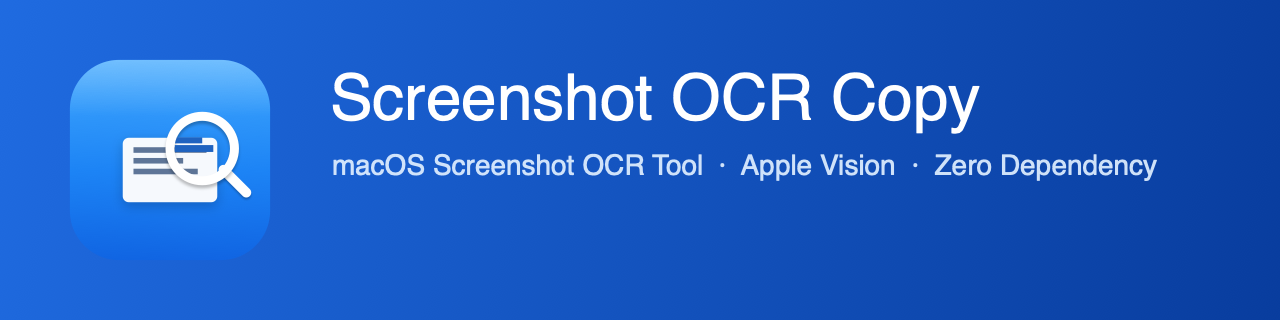
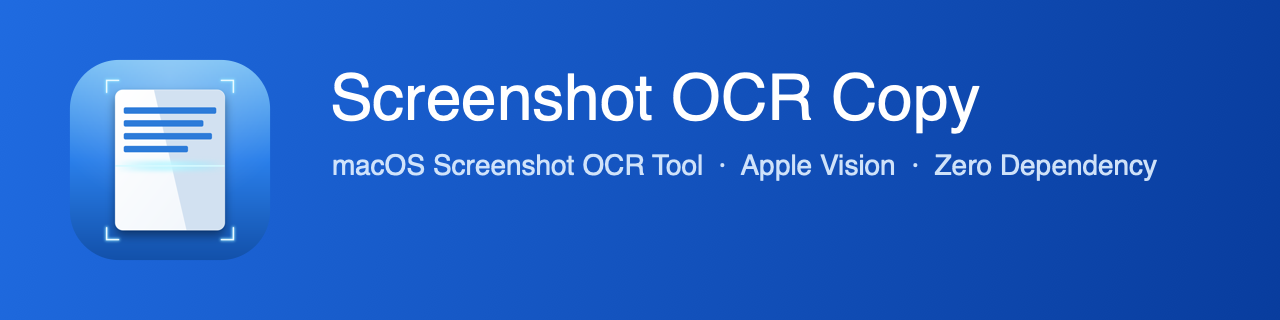
横幅直接加载真实图标，保证与图标同步
修复或实现思路：gen_banner.swift 改为加载 assets/icon_1024.png，不再用代码手画假图标

Changed region(s): [[0.0312, 0.1875, 0.2188, 0.8125]]

diff --git a/tools/gen_banner.swift b/tools/gen_banner.swift
@@ -2,8 +2,8 @@ import Cocoa
 import CoreGraphics
 
 // ============================================================
-// README 横幅：延续应用图标的现代苹果蓝色风格
-// 左侧放大镜+文字卡片 icon 元素，右侧 App 名称 + 标语
+// README 横幅：直接加载真实应用图标 assets/icon_1024.png
+// 保证横幅与图标永远同步
 // ============================================================
 
 let W = 1280
@@ -12,49 +12,35 @@ let cs = CGColorSpaceCreateDeviceRGB()
 guard let ctx = CGContext(data: nil, width: W, height: H, bitsPerComponent: 8,
                           bytesPerRow: 0, space: cs,
                           bitmapInfo: CGImageAlphaInfo.premultipliedLast.rawValue) else { exit(1) }
-let canvas = CGRect(x: 0, y: 0, width: W, height: H)
 
-// macOS squircle
+// macOS squircle（与图标外框一致的圆角）
 func squircle(_ rect: CGRect, radius: CGFloat) -> CGPath {
     return CGPath(roundedRect: rect.insetBy(dx: rect.width*0.045, dy: rect.height*0.045),
                   cornerWidth: radius, cornerHeight: radius, transform: nil)
 }
 
-// ---------- 1) 背景：深蓝渐变（与图标同色系，但稍深以突出前景） ----------
+// ---------- 1) 背景：深蓝渐变（衬托白色图标） ----------
 let bgGrad = CGGradient(colorsSpace: cs, colors: [
     CGColor(red: 0.10, green: 0.32, blue: 0.85, alpha: 1.0),
     CGColor(red: 0.04, green: 0.16, blue: 0.55, alpha: 1.0),
 ] as CFArray, locations: [0, 1])!
 ctx.drawLinearGradient(bgGrad, start: CGPoint(x: 0, y: H), end: CGPoint(x: W, y: 0), options: [])
 
-// ---------- 2) 左侧 App 图标元素（缩小版，squircle 造型） ----------
+// ---------- 2) 加载真实图标 ----------
+let iconFilePath = "/Users/jznano/Desktop/开发/截图复制/assets/icon_1024.png"
+guard let src = CGImageSourceCreateWithURL(URL(fileURLWithPath: iconFilePath) as CFURL, nil),
+      let iconImage = CGImageSourceCreateImageAtIndex(src, 0, nil) else {
+    fatalError("❌ 无法加载 \(iconFilePath)，请先生成图标")
+}
+
+// ---------- 3) 左侧：绘制真实图标（带 squircle 裁剪 + 阴影） ----------
 let iconSize: CGFloat = 220
 let iconX: CGFloat = 60
 let iconY = (CGFloat(H) - iconSize) / 2
 let iconRect = CGRect(x: iconX, y: iconY, width: iconSize, height: iconSize)
 let iconPath = squircle(iconRect, radius: iconSize * 0.2237)
 
-// 图标主体蓝色渐变
-ctx.saveGState()
-ctx.addPath(iconPath)
-ctx.clip()
-let iconGrad = CGGradient(colorsSpace: cs, colors: [
-    CGColor(red: 0.22, green: 0.60, blue: 1.00, alpha: 1.0),
-    CGColor(red: 0.10, green: 0.42, blue: 0.95, alpha: 1.0),
-    CGColor(red: 0.06, green: 0.28, blue: 0.85, alpha: 1.0),
-] as CFArray, locations: [0, 0.55, 1])!
-ctx.drawLinearGradient(iconGrad, start: CGPoint(x: iconX+iconSize/2, y: iconY+iconSize),
-                       end: CGPoint(x: iconX+iconSize/2, y: iconY), options: [])
-// 顶部高光
-let gloss = CGGradient(colorsSpace: cs, colors: [
-    CGColor(red: 1, green: 1, blue: 1, alpha: 0.30),
-    CGColor(red: 1, green: 1, blue: 1, alpha: 0.0),
-] as CFArray, locations: [0, 0.55])!
-ctx.drawLinearGradient(gloss, start: CGPoint(x: iconX+iconSize/2, y: iconY+iconSize),
-                       end: CGPoint(x: iconX+iconSize/2, y: iconY+iconSize*0.45), options: [])
-ctx.restoreGState()
-
-// 图标阴影外圈
+// 阴影外圈
 ctx.saveGState()
 ctx.setShadow(offset: CGSize(width: 0, height: -4), blur: 20,
               color: CGColor(red: 0, green: 0, blue: 0, alpha: 0.35))
@@ -63,71 +49,14 @@ ctx.setFillColor(CGColor(red: 0, green: 0, blue: 0, alpha: 0.001))
 ctx.fillPath()
 ctx.restoreGState()
 
-// 卡片
-let cardScale: CGFloat = iconSize / 1024
-let cardW: CGFloat = 440 * cardScale
-let cardH: CGFloat = 300 * cardScale
-let cardCx = iconX + iconSize/2
-let cardCy = iconY + iconSize/2 - 10
-let cardRect = CGRect(x: cardCx - cardW/2, y: cardCy - cardH/2, width: cardW, height: cardH)
-let cardPath = CGPath(roundedRect: cardRect, cornerWidth: 28*cardScale, cornerHeight: 28*cardScale, transform: nil)
+// 裁剪到 squircle 后绘制真实图标
 ctx.saveGState()
-ctx.setShadow(offset: CGSize(width: 0, height: -4), blur: 12,
-              color: CGColor(red: 0, green: 0, blue: 0, alpha: 0.20))
-ctx.addPath(cardPath)
-ctx.setFillColor(CGColor(red: 1, green: 1, blue: 1, alpha: 0.96))
-ctx.fillPath()
-ctx.restoreGState()
-// 卡片文字行
-ctx.setFillColor(CGColor(red: 0.30, green: 0.38, blue: 0.52, alpha: 1.0))
-let tL = cardRect.minX + 50*cardScale
-let tR = cardRect.maxX - 50*cardScale
-let tW = tR - tL
-let rowH: CGFloat = 26*cardScale
-let rows: [(y: CGFloat, w: CGFloat)] = [
-    (cardRect.maxY - 70*cardScale, tW),
-    (cardRect.maxY - 120*cardScale, tW * 0.68),
-    (cardRect.maxY - 170*cardScale, tW * 0.88),
-]
-for row in rows {
-    ctx.fill(CGRect(x: tL, y: row.y, width: row.w, height: rowH))
-}
-
-// 放大镜（右上方）
-let lensR: CGFloat = 150 * cardScale
-let lensCx = cardRect.maxX - 70*cardScale
-let lensCy = cardRect.maxY - 50*cardScale
-ctx.setLineWidth(46*cardScale)
-ctx.setLineCap(.round)
-ctx.setStrokeColor(CGColor(red: 1, green: 1, blue: 1, alpha: 1.0))
-let a: CGFloat = .pi/4
-let hStart = CGPoint(x: lensCx + cos(a)*(lensR-10*cardScale), y: lensCy - sin(a)*(lensR-10*cardScale))
-let hEnd = CGPoint(x: hStart.x + cos(a)*150*cardScale, y: hStart.y - sin(a)*150*cardScale)
-ctx.saveGState()
-ctx.setShadow(offset: CGSize(width: 0, height: -2), blur: 8*cardScale,
-              color: CGColor(red: 0, green: 0, blue: 0, alpha: 0.25))
-ctx.addLines(between: [hStart, hEnd])
-ctx.strokePath()
-ctx.restoreGState()
-ctx.setLineWidth(42*cardScale)
-ctx.setStrokeColor(CGColor(red: 1, green: 1, blue: 1, alpha: 1.0))
-ctx.saveGState()
-ctx.setShadow(offset: CGSize(width: 0, height: -3), blur: 10*cardScale,
-              color: CGColor(red: 0, green: 0, blue: 0, alpha: 0.25))
-ctx.addEllipse(in: CGRect(x: lensCx-lensR, y: lensCy-lensR, width: lensR*2, height: lensR*2))
-ctx.strokePath()
-ctx.restoreGState()
-let lensInnerR = lensR - 21*cardScale
-ctx.saveGState()
-ctx.addEllipse(in: CGRect(x: lensCx-lensInnerR, y: lensCy-lensInnerR,
-                          width: lensInnerR*2, height: lensInnerR*2))
+ctx.addPath(iconPath)
 ctx.clip()
-ctx.setFillColor(CGColor(red: 0.10, green: 0.30, blue: 0.70, alpha: 1.0))
-ctx.fill(CGRect(x: lensCx-lensInnerR, y: lensCy-16*cardScale, width: lensInnerR*2*0.70, height: 32*cardScale))
-ctx.fill(CGRect(x: lensCx-lensInnerR, y: lensCy+24*cardScale, width: lensInnerR*2*0.50, height: 28*cardScale))
+ctx.draw(iconImage, in: iconRect)
 ctx.restoreGState()
 
-// ---------- 3) 右侧文字（App 名称 + 标语） ----------
+// ---------- 4) 右侧文字 ----------
 func drawText(_ text: String, font: CTFont, color: CGColor, at point: CGPoint) {
     let attrs: [NSAttributedString.Key: Any] = [
         .font: font,
@@ -141,7 +70,7 @@ func drawText(_ text: String, font: CTFont, color: CGColor, at point: CGPoint) {
     ctx.restoreGState()
 }
 
-// 标题（大字）
+// 标题
 guard let titleFont = CTFontCreateWithName("SFProDisplay-Bold" as CFString, 64.0, nil) as CTFont? else { exit(3) }
 drawText("Screenshot OCR Copy",
          font: titleFont,
@@ -163,4 +92,4 @@ let url = URL(fileURLWithPath: outDir + "/banner.png")
 let dest = CGImageDestinationCreateWithURL(url as CFURL, "public.png" as CFString, 1, nil)!
 CGImageDestinationAddImage(dest, img, nil)
 CGImageDestinationFinalize(dest)
-print("✓ banner.png written (1280x320, Apple-style)")
+print("✓ banner.png 已生成（直接使用真实图标，1280x320）")